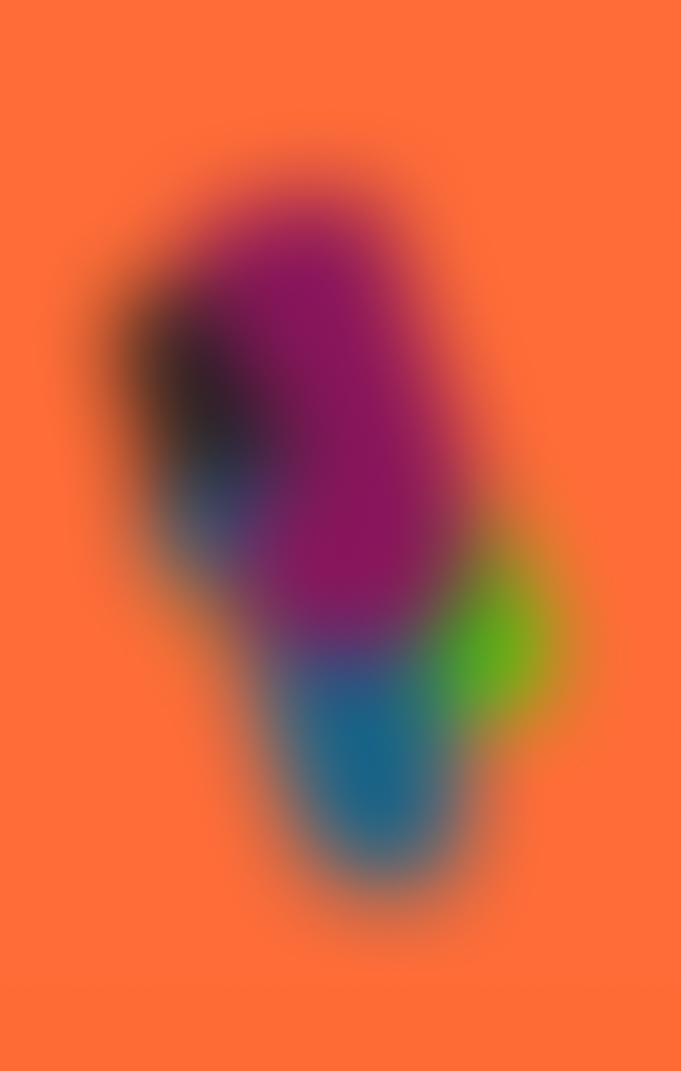
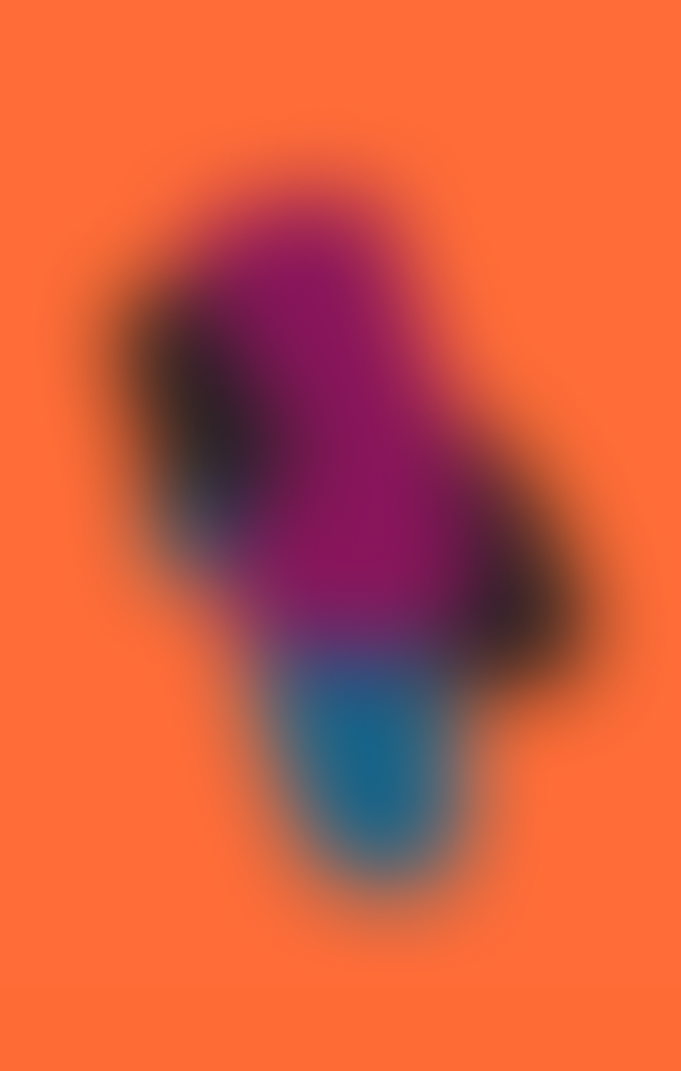
Chart color

Changed region(s): [[0.5859, 0.3697, 0.9251, 0.7087]]

diff --git a/main.js b/main.js
@@ -1,4 +1,5 @@
 const ctx = document.getElementById('myChart').getContext('2d');
+Chart.defaults.color = '#000000';
 
 new Chart(ctx, {
     type: 'bar',
@@ -7,15 +8,25 @@ new Chart(ctx, {
         datasets: [{
             label: '# of Votes',
             data: [12, 19, 3, 5, 2, 3],
-            borderWidth: 1
+            backgroundColor: '#136288',
+            borderWidth: 1,
+            color: '#000000'
         }]
     },
     options: {
         responsive: true,
-
         scales: {
             y: {
-                beginAtZero: true
+                beginAtZero: true,
+                grid: {
+                    display: false
+                }
+
+            },
+            x: {
+                grid: {
+                    display: false
+                }
             }
         }
     }

diff --git a/styles.css b/styles.css
@@ -68,8 +68,9 @@ h1 {
     z-index: 1;
     padding-right: 50px;
     padding-top: 100px;
-    left: 800px;
+    left: 700px;
     top: 100px;
+    background: transparent;
 }
 
 
